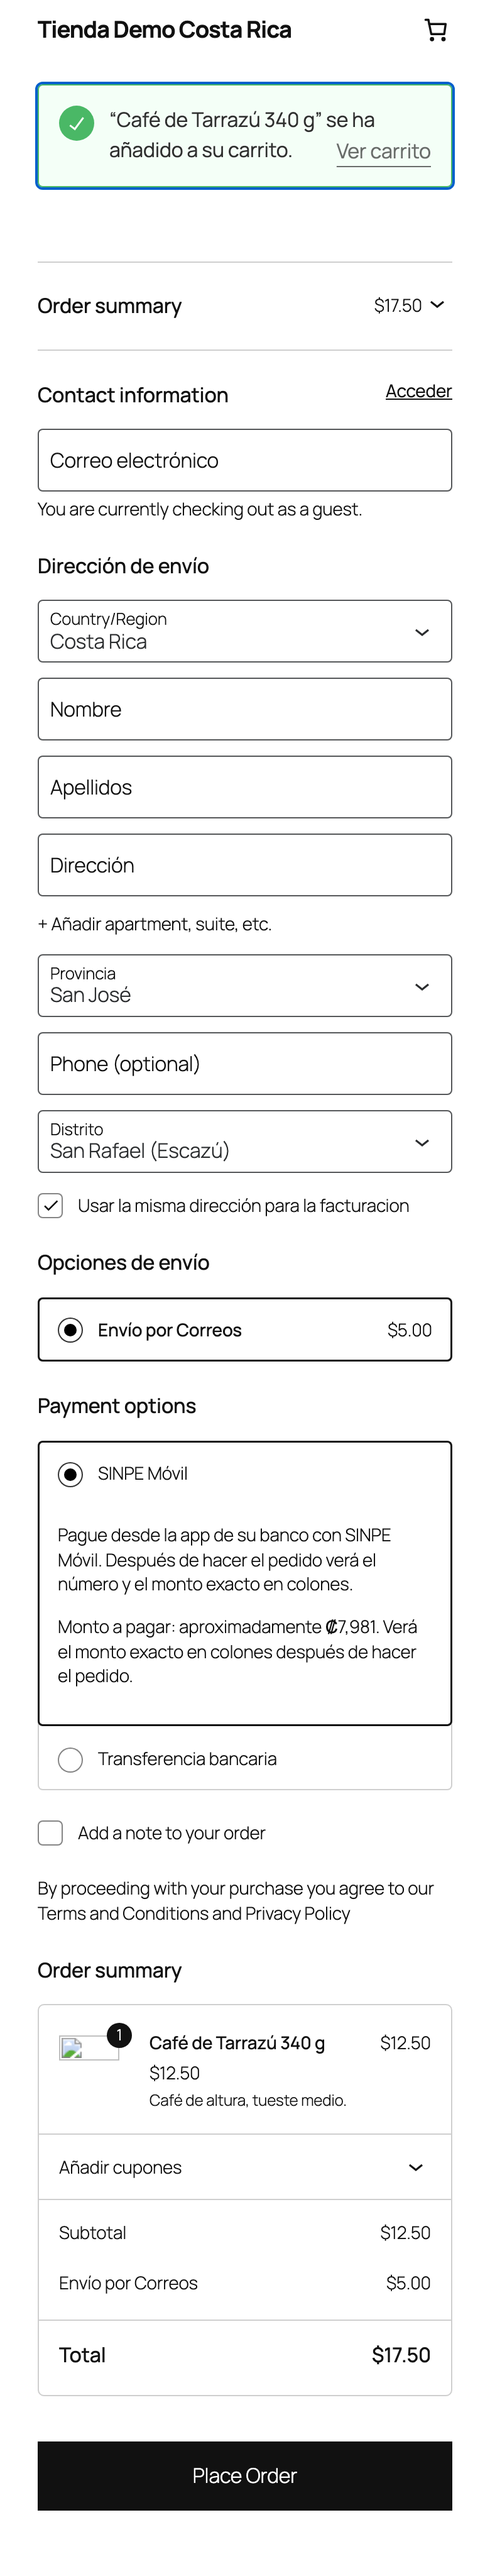
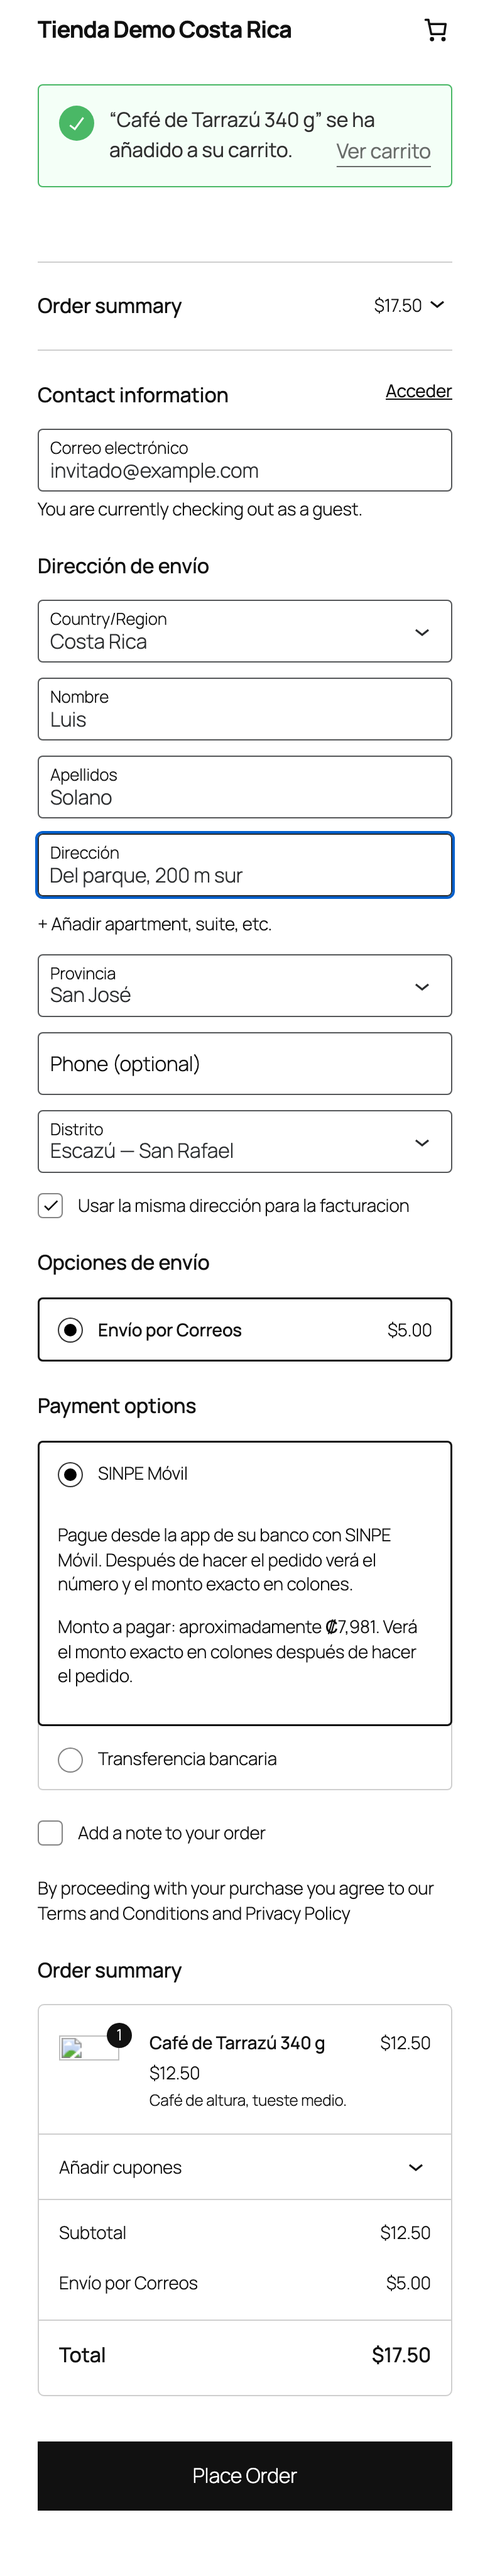
test(e2e): reproducible 390 px block checkout screenshots, district order list box

diff --git a/tests/e2e/specs/screenshots-fase-2.spec.js b/tests/e2e/specs/screenshots-fase-2.spec.js
@@ -125,3 +125,64 @@ test( 'phase 2 screenshots', async ( { browser } ) => {
 	await store.close();
 	await customer.close();
 } );
+
+test( 'phase 2 mobile screenshots (390 px)', async ( { browser } ) => {
+	const shopper = await browser.newContext( {
+		viewport: { width: 390, height: 844 },
+		deviceScaleFactor: 2,
+		isMobile: true,
+		hasTouch: true,
+	} );
+	const page = await shopper.newPage();
+	await u.addToCart( page, 'CRK-COFFEE' );
+
+	// San José has the longest district list (123 districts).
+	await page.goto( '/checkout/' );
+	await page.waitForSelector( '.wc-block-checkout__form' );
+	await page.locator( '#shipping-state' ).selectOption( 'CR-SJ' );
+	await page.waitForLoadState( 'networkidle' );
+	const district = page.locator( '#shipping-crkit-district-sj' );
+	const center = () =>
+		district.evaluate( ( select ) =>
+			select.scrollIntoView( { block: 'center' } )
+		);
+	await center();
+	await shot( page, '11-movil-bloques-distrito-san-jose', {
+		fullPage: false,
+	} );
+
+	// The native select opens the system picker, which a screenshot cannot capture:
+	// render the same options as a list box to show their order.
+	await district.evaluate( ( select ) => {
+		select.setAttribute( 'size', '16' );
+		select.style.height = 'auto';
+		select.style.position = 'relative';
+		select.style.zIndex = '10';
+		select.style.background = '#fff';
+	} );
+	await district.screenshot( {
+		path: path.join( DIR, '14-movil-bloques-orden-distritos.png' ),
+	} );
+	await district.evaluate( ( select ) => {
+		select.removeAttribute( 'size' );
+		select.removeAttribute( 'style' );
+	} );
+
+	await district.selectOption( '10203' );
+	await page.waitForLoadState( 'networkidle' );
+	await expect( district ).toHaveValue( '10203' );
+	await center();
+	await shot( page, '12-movil-bloques-distrito-elegido', {
+		fullPage: false,
+	} );
+
+	await page.fill( '#email', 'invitado@example.com' );
+	await page.fill( '#shipping-first_name', 'Luis' );
+	await page.fill( '#shipping-last_name', 'Solano' );
+	await page.fill( '#shipping-address_1', 'Del parque, 200 m sur' );
+	await page.waitForLoadState( 'networkidle' );
+	await noSkeletons( page );
+	await shot( page, '13-movil-checkout-bloques-completo' );
+
+	await shopper.close();
+} );
